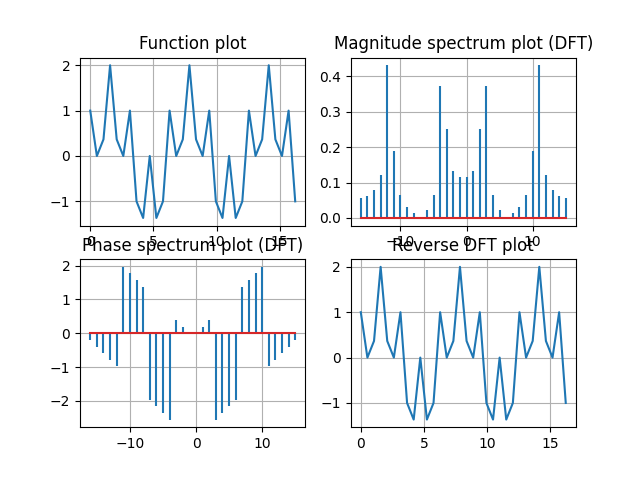
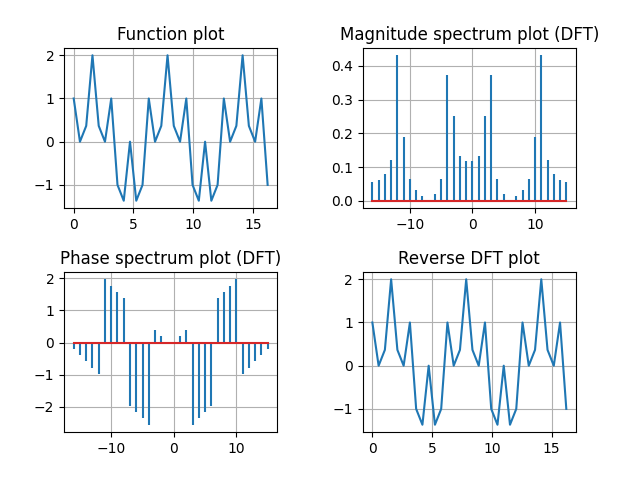
sin(X) + cos(4x) time DIF is now completed without any bugs

Changed region(s): [[0.0625, 0.0625, 0.4688, 0.9375], [0.5, 0.0312, 0.9375, 0.9375]]

diff --git a/lab_1.py b/lab_1.py
@@ -7,7 +7,7 @@ import matplotlib.pyplot as plt
 def main():
     # amount of bins equals to sample rate
 
-    n = 32
+    n = 16
     arguments = np.arange(0, n) * np.pi / 6
     function_values = list(map(lambda x: np.sin(x) + np.cos(4 * x), arguments))
 
@@ -69,6 +69,14 @@ def main():
     ax4.set(title='Reverse FFT plot')
     ax4.grid()
 
+    # set the spacing between subplots
+    plt.subplots_adjust(left=0.1,
+                        bottom=0.1,
+                        right=0.9,
+                        top=0.9,
+                        wspace=0.4,
+                        hspace=0.4)
+
     fig2, ((ax5, ax6), (ax7, ax8)) = plt.subplots(2, 2)
 
     ax5.plot(arguments, function_values)
@@ -86,6 +94,14 @@ def main():
     ax8.plot(arguments, reverse_dft_result)
     ax8.set(title='Reverse DFT plot')
     ax8.grid()
+
+    # set the spacing between subplots
+    plt.subplots_adjust(left=0.1,
+                        bottom=0.1,
+                        right=0.9,
+                        top=0.9,
+                        wspace=0.4,
+                        hspace=0.4)
 
     plt.show()
 
